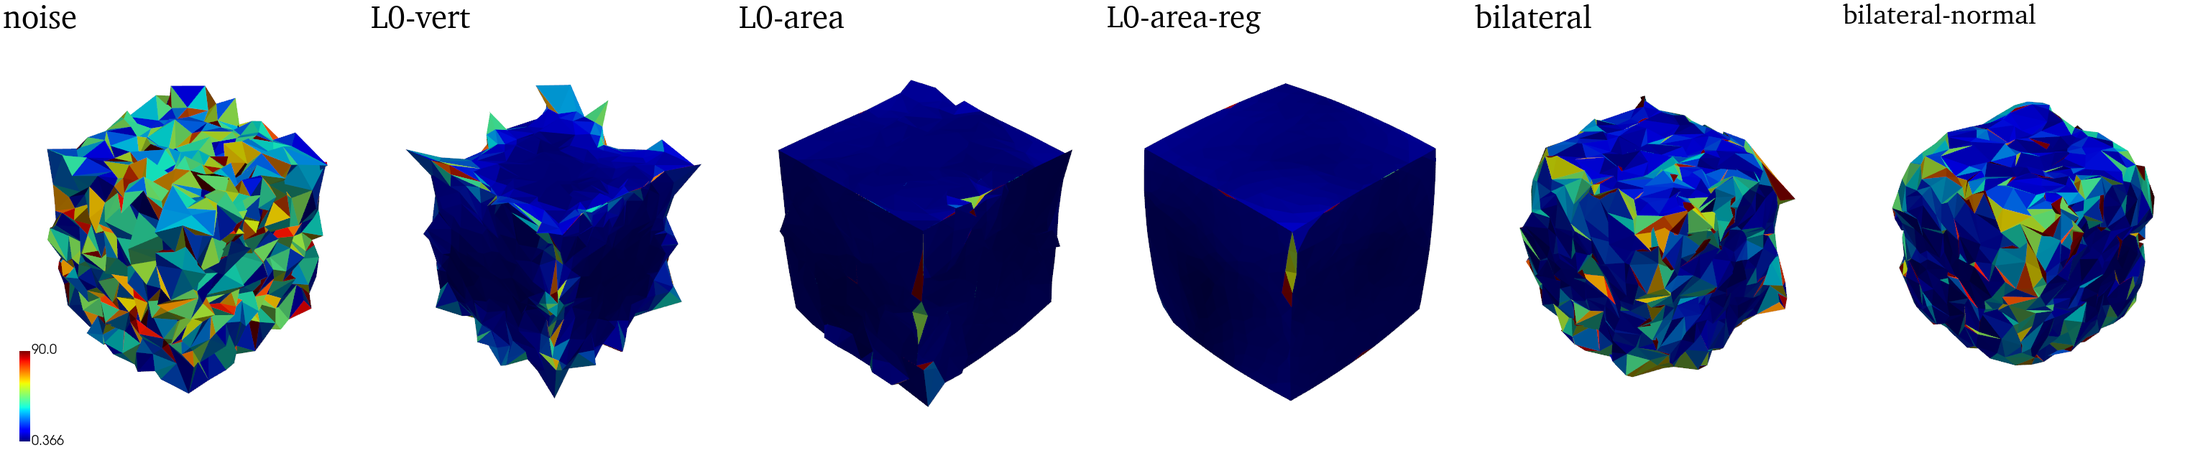
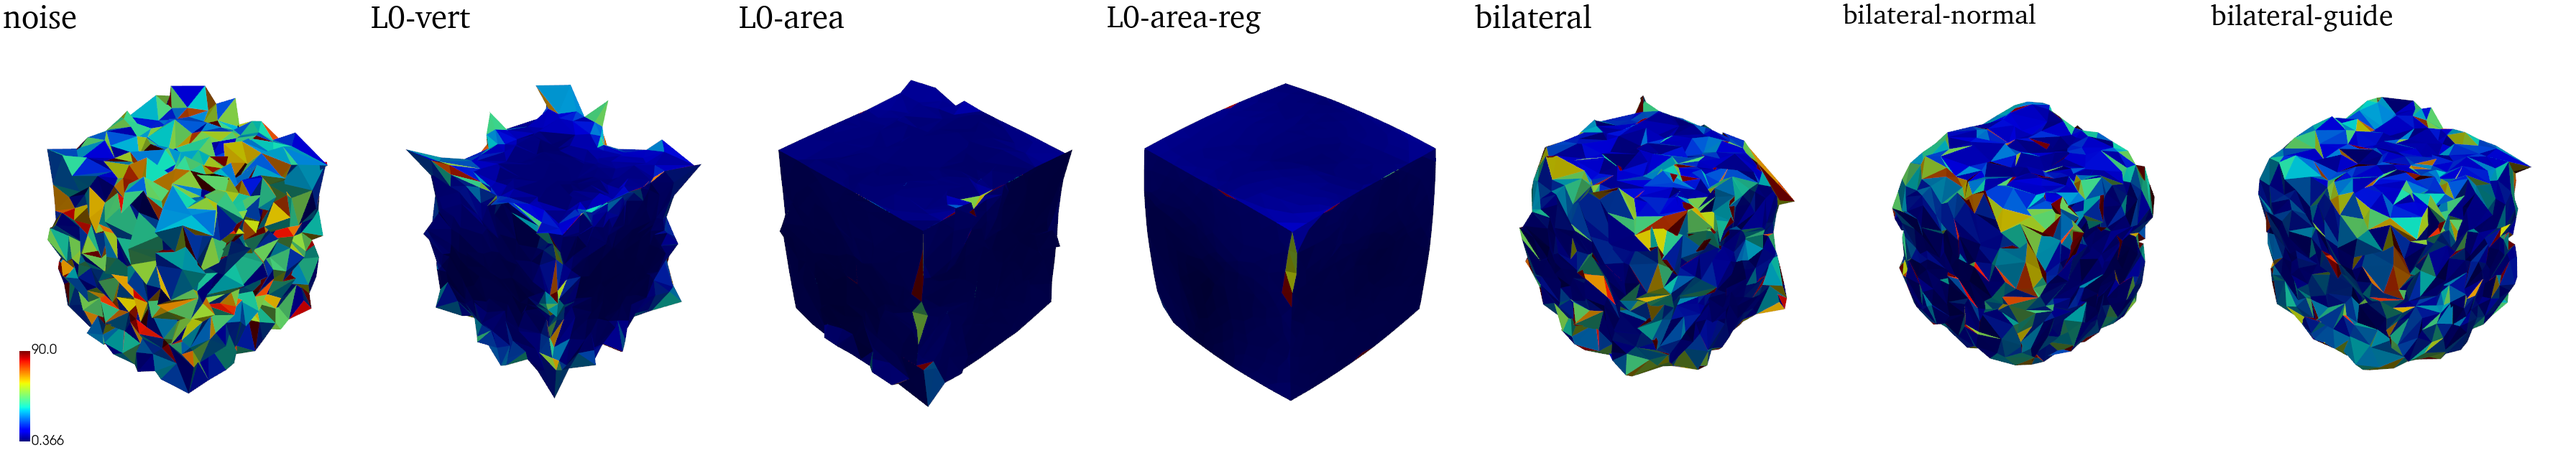
fix: bilateral guide tested

diff --git a/src/bilateral/main3.cc b/src/bilateral/main3.cc
@@ -128,6 +128,7 @@ void get_patch(const Eigen::MatrixXd& V,
                 // metric2
                 if (A.coeff(f1, f2) == 2) {
                     // meet non-boundary edge
+                    //std::cout << "meet non-boundary edge " << f1 << " " << f2 << std::endl;
                     if (tv_max < diff) tv_max = diff;
                     tv_sum += diff;
                 }
@@ -147,7 +148,26 @@ void get_guide(const Eigen::VectorXd& patch_metric, const Eigen::MatrixXd& patch
     for (int facet = 0; facet < A.outerSize(); ++facet) {
         // build each facet's guide norm
         int best_idx = 0;
-        int best_metric = -1;
+        double best_metric = 1e10;
+        for (Eigen::SparseMatrix<int>::InnerIterator it(A, facet); it; ++it) {
+            int patch = it.row();
+            if (patch_metric(patch) < best_metric){
+                best_metric = patch_metric(patch);
+                best_idx = patch;
+            }      
+        }
+        guide_norm.row(facet) = patch_norm.row(best_idx);
+    }
+}
+
+void get_guide_worst(const Eigen::VectorXd& patch_metric, const Eigen::MatrixXd& patch_norm, Eigen::SparseMatrix<int>& A,
+                Eigen::MatrixXd& guide_norm){
+    // choose worst patch, only to validate the patch selection metric, 
+    guide_norm = Eigen::MatrixXd::Zero(patch_norm.rows(), 3);
+    for (int facet = 0; facet < A.outerSize(); ++facet) {
+        // build each facet's guide norm
+        int best_idx = 0;
+        double best_metric = -1;
         for (Eigen::SparseMatrix<int>::InnerIterator it(A, facet); it; ++it) {
             int patch = it.row();
             if (patch_metric(patch) > best_metric){
@@ -163,7 +183,8 @@ void bilateral_guide(const Eigen::MatrixXd& V, const Eigen::MatrixXi& F, Eigen::
                     int max_iter = 1,
                     int update_max_iter = 20,
                     double sigma_c = 0.,
-                    double sigma_s = 0.2) {
+                    double sigma_s = 0.2,
+                    bool use_worst_patch = false) {
     Eigen::SparseMatrix<int> A; // facet adjacent matrix 
     Eigen::MatrixXd N; // facet normal
     Eigen::MatrixXd C = Eigen::MatrixXd::Zero(F.rows(), 3); // centroids of facet
@@ -180,6 +201,7 @@ void bilateral_guide(const Eigen::MatrixXd& V, const Eigen::MatrixXi& F, Eigen::
     Eigen::MatrixXd GN;
     get_patch(V, N, A, patch_metric, patch_norm);
     get_guide(patch_metric, patch_norm, A, GN);
+    if(use_worst_patch) get_guide_worst(patch_metric, patch_norm, A, GN);
 
     if (sigma_c == 0.){
         // if not user specified, use paper setting
@@ -237,6 +259,7 @@ int main(int argc, char *argv[])
     double sigma_c = 0., sigma_s = 0.2;
     int iter_num = 1;
     int vupdate_iter_num = 20;
+    bool use_worst_patch = false;
 
     auto cli = (clipp::value("input file", infile),
                 clipp::value("output file", outfile),
@@ -247,7 +270,8 @@ int main(int argc, char *argv[])
                 clipp::option("-i", "--iter").doc("iteration times used for normal filtering")
                     & clipp::value("iter_num", iter_num), 
                 clipp::option("--update_iter").doc("iteration times used for vertex update")
-                    & clipp::value("vupdate_iter_num", vupdate_iter_num)
+                    & clipp::value("vupdate_iter_num", vupdate_iter_num),
+                clipp::option("--use_worst_patch").set(use_worst_patch).doc("choose worst patch, to validate patch selection")
                 );
 
     if(parse(argc, argv, cli)) {
@@ -266,7 +290,7 @@ int main(int argc, char *argv[])
 
     auto start = std::chrono::high_resolution_clock::now();  
 
-    bilateral_guide(V, F, p, iter_num, vupdate_iter_num, sigma_c, sigma_s);
+    bilateral_guide(V, F, p, iter_num, vupdate_iter_num, sigma_c, sigma_s, use_worst_patch);
 
     auto end = std::chrono::high_resolution_clock::now();
     std::chrono::duration<double, std::milli> duration = end - start;

diff --git a/scripts/cube_vis.py b/scripts/cube_vis.py
@@ -1,23 +1,26 @@
 from visualize import *
 
-f0 = '../run/test_cube/vertex_lambda_1e-2.obj'
-f1 = '../run/test_cube/area_lambda_6e-3.obj'
-f2 = '../run/test_cube/area_lambda_6e-3_regualtion.obj'
-f3 = '../run/test_cube/bilateral.obj'
-f4 = '../run/test_cube/bilateral_norm.obj'
-f5 = '../data/examples/cube7.obj'
 f = '../data/examples/cube.obj'
+f0 = '../data/examples/cube7.obj'
+f1 = '../run/test_cube/vertex_lambda_1e-2.obj'
+f2 = '../run/test_cube/area_lambda_6e-3.obj'
+f3 = '../run/test_cube/area_lambda_6e-3_regualtion.obj'
+f4 = '../run/test_cube/bilateral.obj'
+f5 = '../run/test_cube/bilateral_norm.obj'
+f6 = '../run/test_cube/bilateral_guide.obj'
+
 
 sargs = dict(height=0.2, vertical=True, position_x=0.05, position_y=0.05, n_labels=2)
 
-m0 = visual_norm(f5, f)
-m1 = visual_norm(f0, f)
-m2 = visual_norm(f1, f)
-m3 = visual_norm(f2, f)
-m4 = visual_norm(f3, f)
-m5 = visual_norm(f4, f)
+m0 = visual_norm(f0, f)
+m1 = visual_norm(f1, f)
+m2 = visual_norm(f2, f)
+m3 = visual_norm(f3, f)
+m4 = visual_norm(f4, f)
+m5 = visual_norm(f5, f)
+m6 = visual_norm(f6, f)
 
-example_subplot([m0, m1, m2, m3, m4, m5], fig_name='../imgs/gallery.png', titles=['noise', 'L0-vert', 'L0-area', 'L0-area-reg', 'bilateral', 'bilateral-normal'], sargs=sargs)
+example_subplot([m0, m1, m2, m3, m4, m5, m6], fig_name='../imgs/gallery.png', titles=['noise', 'L0-vert', 'L0-area', 'L0-area-reg', 'bilateral', 'bilateral-normal', 'bilateral-guide'], sargs=sargs)
 
 f0 = os.path.join('../run/test_cube/log0/10.obj')
 f1 = os.path.join('../run/test_cube/log0/20.obj')

diff --git a/README.md b/README.md
@@ -238,7 +238,7 @@ $$
 
 TODO:
 
-TVCG11的全局方法未实现、guide norm filtering的方法待验证
+TVCG11的全局方法未实现
 
 Thingi10K(a) 使用`lib::read_triangle_mesh`直接读取stl添加噪声（结果不对）
 
